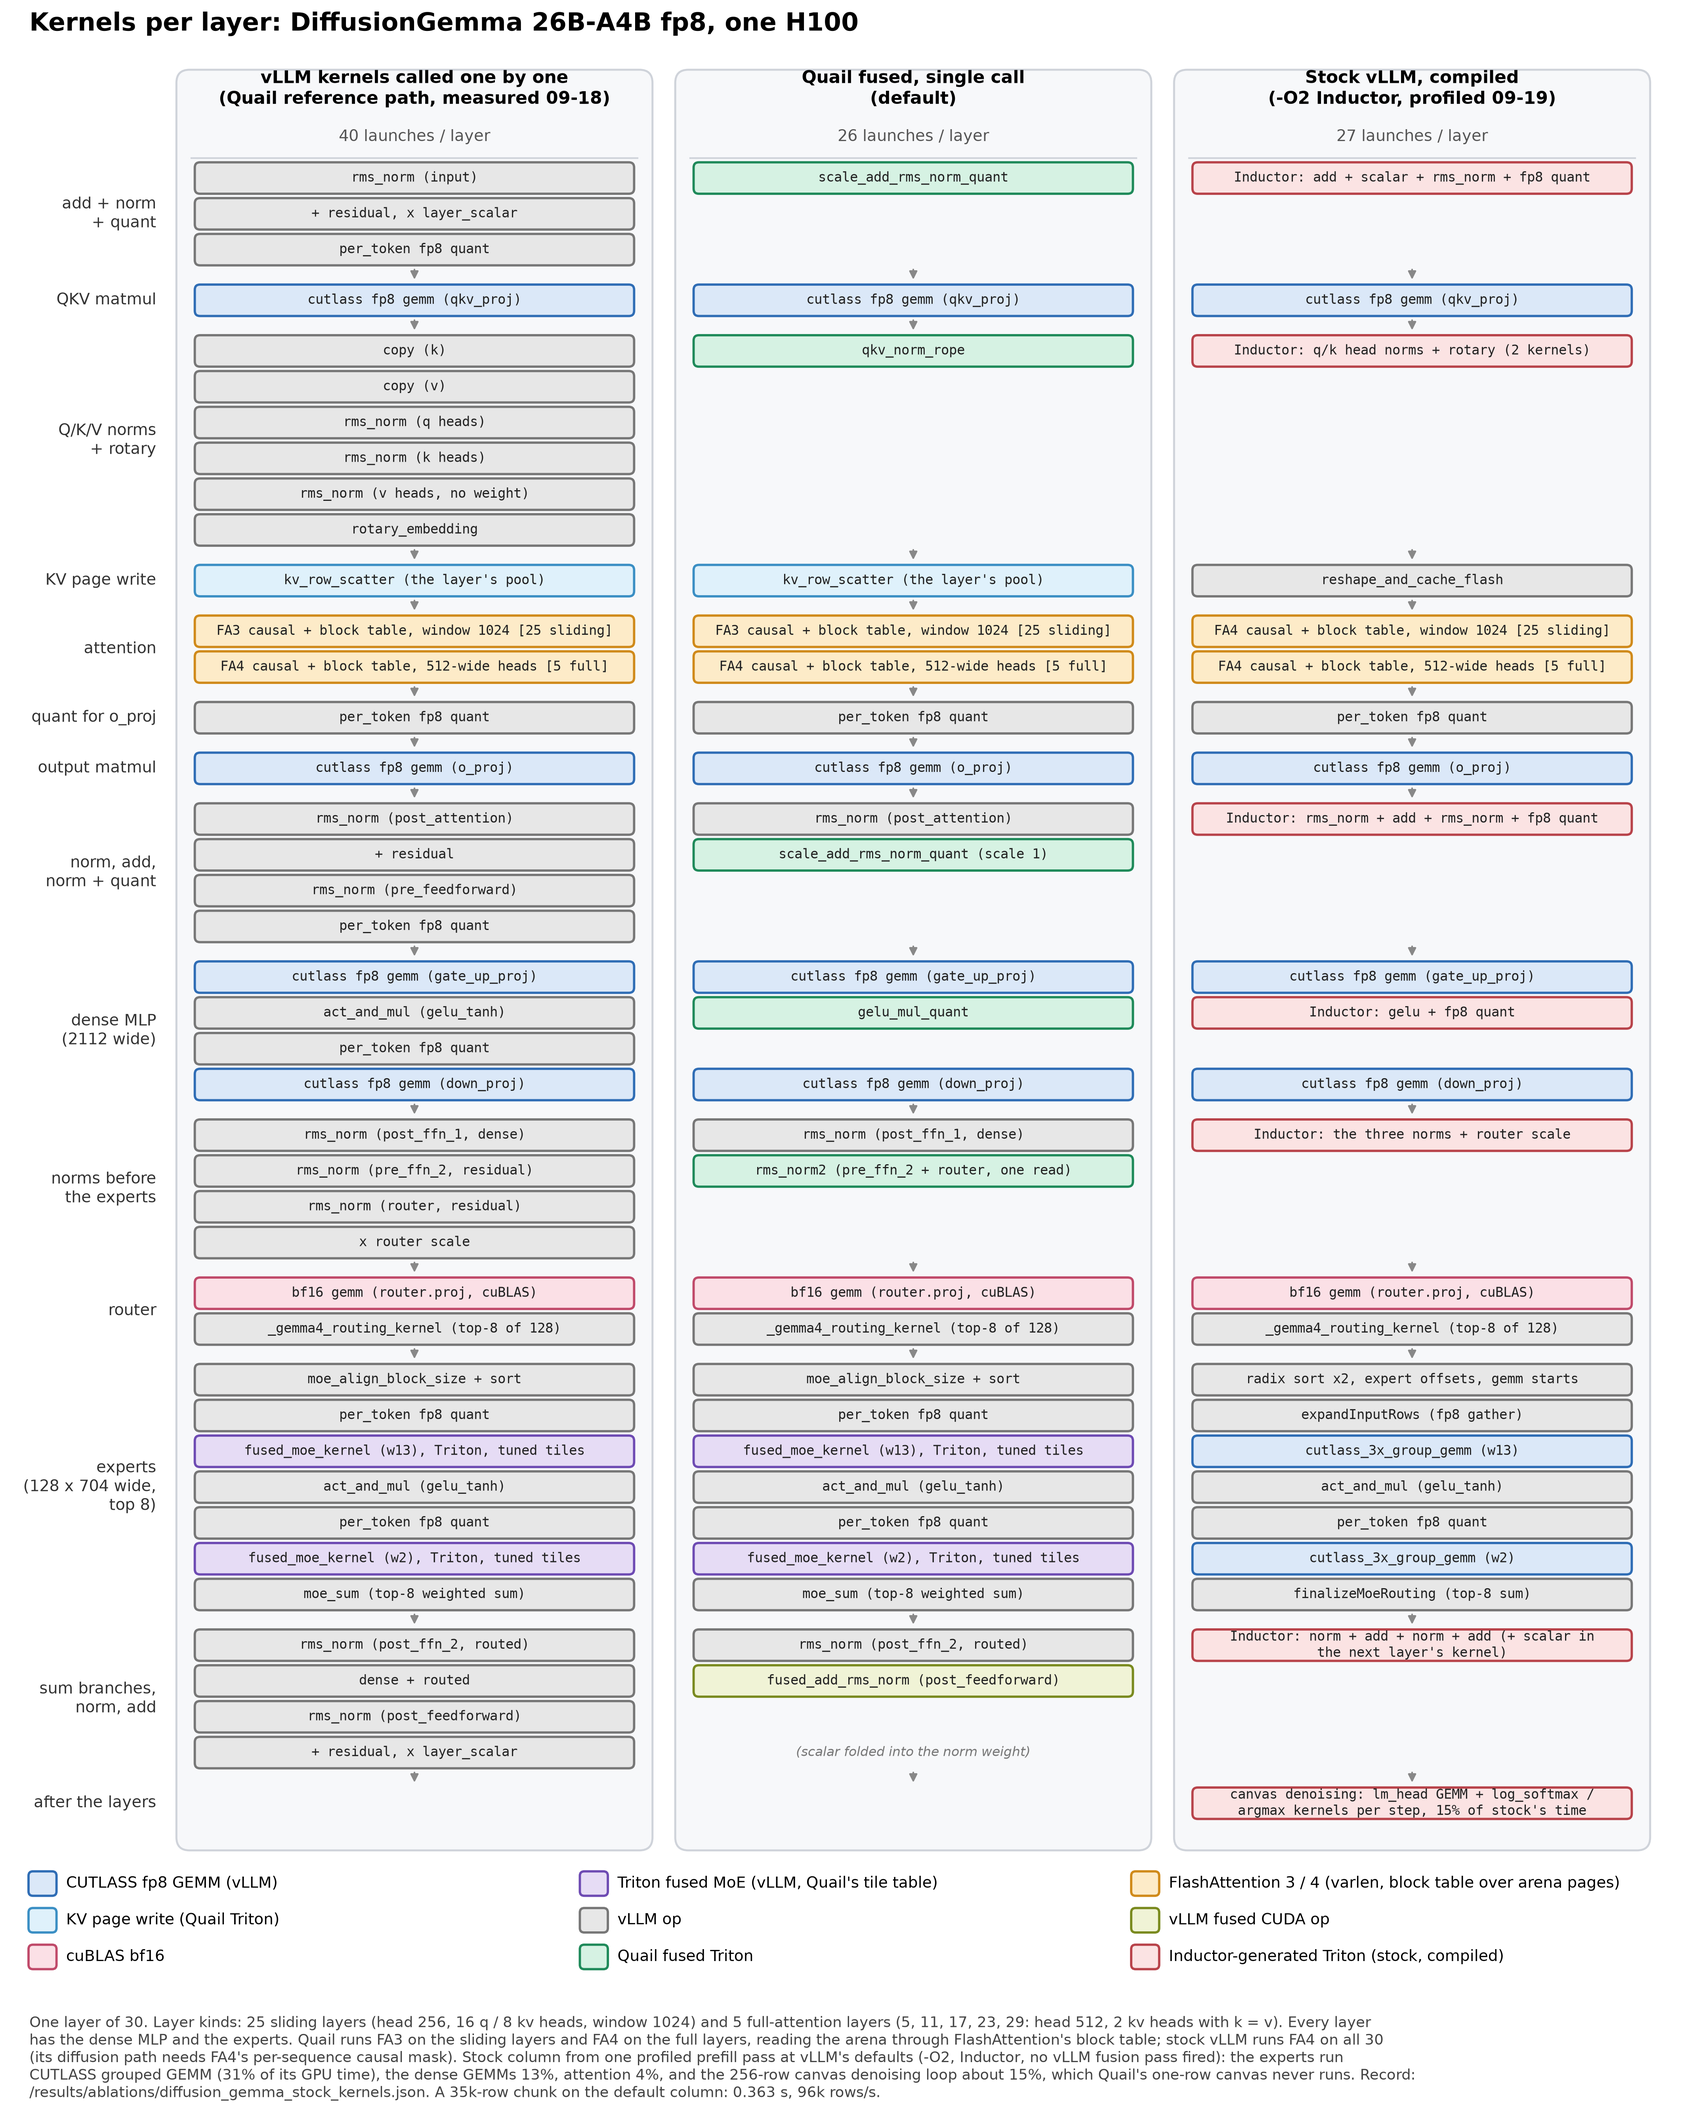
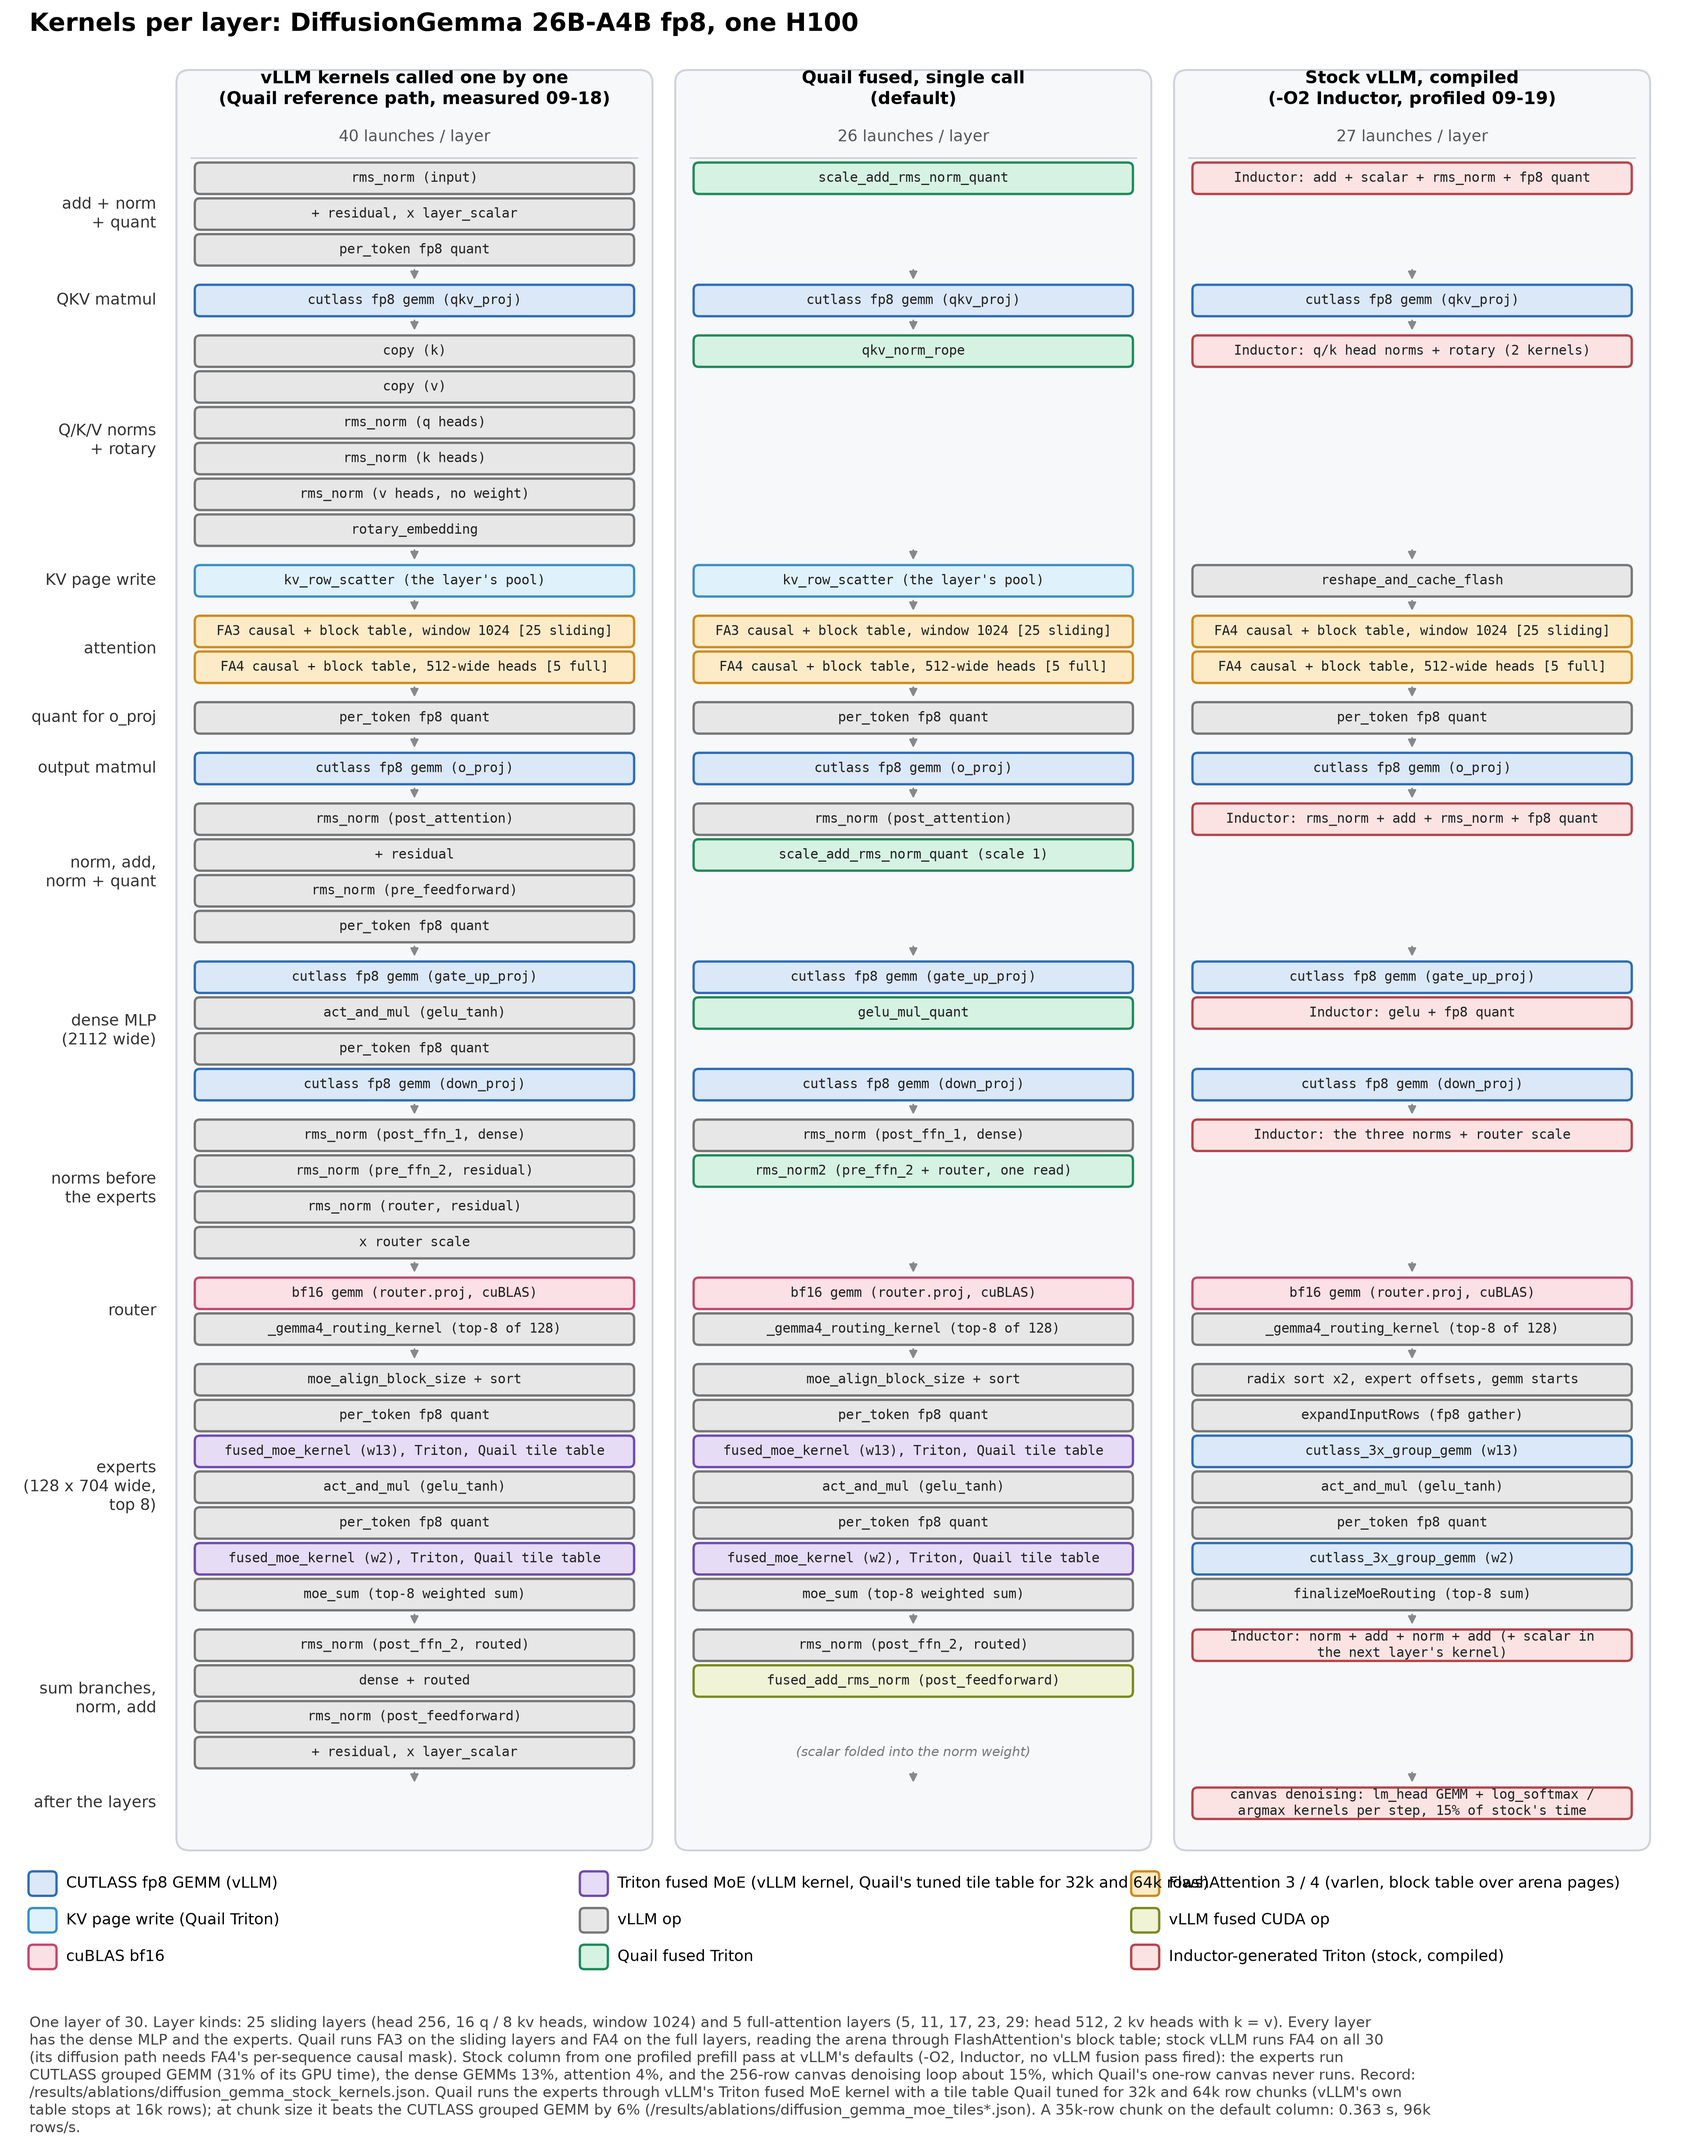
Name Quail's expert tile table in the kernel diagram
Claude-Session: https://claude.ai/code/session_01QSSphc3BizDnnNx4Eg2ULt

diff --git a/reports/make_diffusion_gemma_kernels_diagram.py b/reports/make_diffusion_gemma_kernels_diagram.py
@@ -27,10 +27,10 @@ COLS = ["vLLM kernels called one by one\n(Quail reference path, measured 09-18)"
 V, Q, G, F, KV, M, C, VF, I = "vllm", "quail", "gemm", "fa", "kv", "moe", "cublas", "vfused", "inductor"
 moe_rows = [[("moe_align_block_size + sort", V), ("moe_align_block_size + sort", V), ("radix sort x2, expert offsets, gemm starts", V)],
             [("per_token fp8 quant", V), ("per_token fp8 quant", V), ("expandInputRows (fp8 gather)", V)],
-            [("fused_moe_kernel (w13), Triton, tuned tiles", M), ("fused_moe_kernel (w13), Triton, tuned tiles", M), ("cutlass_3x_group_gemm (w13)", G)],
+            [("fused_moe_kernel (w13), Triton, Quail tile table", M), ("fused_moe_kernel (w13), Triton, Quail tile table", M), ("cutlass_3x_group_gemm (w13)", G)],
             [("act_and_mul (gelu_tanh)", V)] * 3,
             [("per_token fp8 quant", V)] * 3,
-            [("fused_moe_kernel (w2), Triton, tuned tiles", M), ("fused_moe_kernel (w2), Triton, tuned tiles", M), ("cutlass_3x_group_gemm (w2)", G)],
+            [("fused_moe_kernel (w2), Triton, Quail tile table", M), ("fused_moe_kernel (w2), Triton, Quail tile table", M), ("cutlass_3x_group_gemm (w2)", G)],
             [("moe_sum (top-8 weighted sum)", V), ("moe_sum (top-8 weighted sum)", V), ("finalizeMoeRouting (top-8 sum)", V)]]
 # each stage: list of rows; each row: 3 entries (text, kind) or None, so the same kernel sits on the same row
 stages = [
@@ -112,7 +112,7 @@ for (label, rows), h in zip(stages, heights):
             xc = col_x0 + ci * (col_w + col_gap) + 0.2 + (col_w - 0.4) / 2
             ax.annotate("", xy=(xc, y - h - STAGE_GAP + 0.03), xytext=(xc, y - h - 0.02), arrowprops=dict(arrowstyle="-|>", color="#888", lw=1))
     y -= h + STAGE_GAP
-items = [("gemm", "CUTLASS fp8 GEMM (vLLM)"), ("moe", "Triton fused MoE (vLLM, Quail's tile table)"), ("fa", "FlashAttention 3 / 4 (varlen, block table over arena pages)"),
+items = [("gemm", "CUTLASS fp8 GEMM (vLLM)"), ("moe", "Triton fused MoE (vLLM kernel, Quail's tuned tile table for 32k and 64k rows)"), ("fa", "FlashAttention 3 / 4 (varlen, block table over arena pages)"),
          ("kv", "KV page write (Quail Triton)"), ("vllm", "vLLM op"), ("vfused", "vLLM fused CUDA op"), ("cublas", "cuBLAS bf16"), ("quail", "Quail fused Triton"), ("inductor", "Inductor-generated Triton (stock, compiled)")]
 for i, (kind, text) in enumerate(items):
     xx = 0.2 + (i % 3) * 6.3; yy = -0.75 - (i // 3) * 0.42
@@ -124,7 +124,9 @@ note = ("One layer of 30. Layer kinds: 25 sliding layers (head 256, 16 q / 8 kv 
         "layers, reading the arena through FlashAttention's block table; stock vLLM runs FA4 on all 30 (its diffusion path needs FA4's per-sequence "
         "causal mask). Stock column from one profiled prefill pass at vLLM's defaults (-O2, Inductor, no vLLM fusion pass fired): the experts run "
         "CUTLASS grouped GEMM (31% of its GPU time), the dense GEMMs 13%, attention 4%, and the 256-row canvas denoising loop about 15%, which "
-        "Quail's one-row canvas never runs. Record: /results/ablations/diffusion_gemma_stock_kernels.json. A 35k-row chunk on the default column: "
+        "Quail's one-row canvas never runs. Record: /results/ablations/diffusion_gemma_stock_kernels.json. Quail runs the experts through vLLM's "
+        "Triton fused MoE kernel with a tile table Quail tuned for 32k and 64k row chunks (vLLM's own table stops at 16k rows); at chunk size it "
+        "beats the CUTLASS grouped GEMM by 6% (/results/ablations/diffusion_gemma_moe_tiles*.json). A 35k-row chunk on the default column: "
         "0.363 s, 96k rows/s.")
 ax.text(0.2, -2.25, "\n".join(textwrap.wrap(note, 185)), fontsize=8.8, color="#444", va="top")
 plt.savefig(OUT, dpi=300, bbox_inches="tight", facecolor="white")
